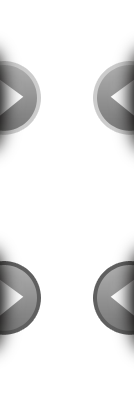
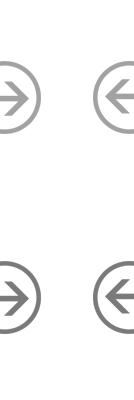
Updated Home page

diff --git a/BusinessLMSWeb/Content/main/main.css b/BusinessLMSWeb/Content/main/main.css
@@ -718,14 +718,14 @@ a.forrst
 a.youtube
 {
 	border-top: 1px solid #f39a9e;
-	background: #CD332D;
-	background: -moz-linear-gradient(, #CD332D , #e13c41);
-	background: -ms-linear-gradient(, #CD332D, #e13c41);
-	background: -o-linear-gradient(, #CD332D, #e13c41);
-	background: -webkit-gradient(linear, 0 0, 0 0, from(#CD332D), to(#e13c41));
-	background: -webkit-linear-gradient(, #CD332D, #e13c41);
-	background: linear-gradient(, #CD332D, #e13c41);
-	color: rgba(69, 22, 24, 1);
+	background: #6E0610;
+	background: -moz-linear-gradient(, #6E0610 , #e13c41);
+	background: -ms-linear-gradient(, #6E0610, #e13c41);
+	background: -o-linear-gradient(, #6E0610, #e13c41);
+	background: -webkit-gradient(linear, 0 0, 0 0, from(#6E0610), to(#e13c41));
+	background: -webkit-linear-gradient(, #6E0610, #e13c41);
+	background: linear-gradient(, #6E0610, #e13c41);
+	color: rgba(0, 0, 0, 1);
 }
 
 	a.youtube:active
@@ -793,19 +793,22 @@ a.flickr
 	{
 		background-position: -75px 0;
 	}
-
-	.icons.youtube
-	{
-		background-position: -175px 0;
-	}
    
 	.icons.flickr
 	{
 		background-position: -125px 0;
 	}
- 
-   
 
+	.icons.youtube
+	{
+		position: absolute;
+		right: 13px;
+		bottom: 8px;
+		display: block;
+		background: url(/Images/Home/youtubelogo.png) no-repeat;
+	}
+
+ 
 footer
 {
 	font-size: 12px;
@@ -832,8 +835,6 @@ p
 {
 	padding-top: 5px;
 	color: #333;
-	-webkit-text-shadow: 0 0 3px #555;
-	text-shadow: 0 0 3px #555;
 	letter-spacing: 2px;
 	font-size: 18px;
 	font-family: ChunkFive, Arial, Helvetica, sans-serif;
@@ -2906,3 +2907,5 @@ div.dark_rounded #pp_full_res .pp_inline, div.dark_square #pp_full_res .pp_inlin
 	margin-bottom: 10px;
 	text-align: right;
 }
+
+.centrado { text-align:center; }
